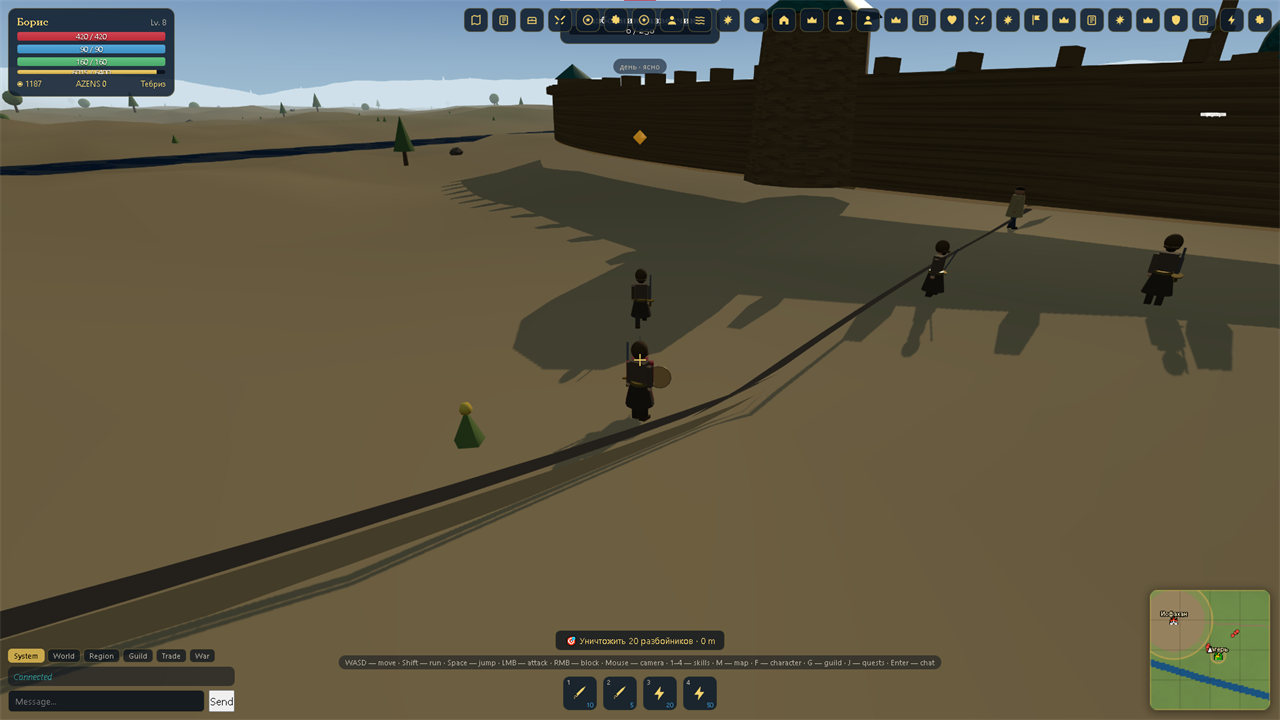
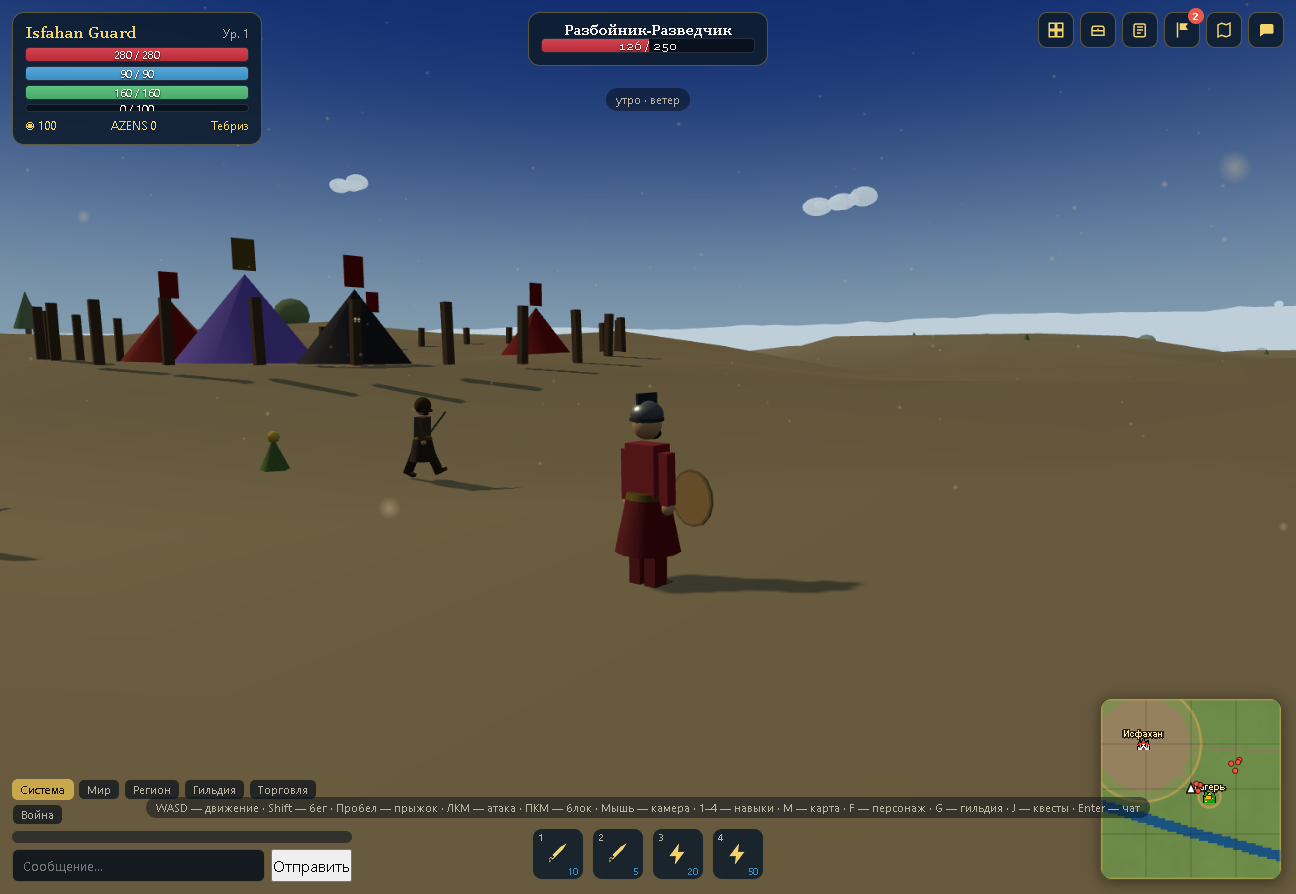
Лендинг: кадры сняты с боевого сервера, а не выдуманы
Раздел скриншотов врал три раза из четырёх.

1. Имя файла и подпись описывали разное. combat.png был подписан "Дороги,
   ведущие в город" - это не бой. dungeon.png - "Караванный лагерь
   ночью", simurgh.png - "Ворота города". Ни одна подпись не
   соответствовала содержимому своего файла.

2. Кадры показывали интерфейс, которого в игре нет: ряд из 33 кнопок.
   Сейчас в ряду пять плюс уведомления, и добавлена кнопка задач дня.
   Лендинг обещал игру, которой не существует.

3. Кадры обрезались. Формат 1290x872, карточка резала по 16/9 и
   отрезала верх и низ - рамку персонажа, ряд кнопок и чат.

Снято четыре кадра с боевого сервера, в русском интерфейсе, после
всех выкаток: город Тебриз утром, бой с разбойниками (видна полоса
здоровья цели и осталось 126 из 250), панель ежедневных задач с
красной цифрой на кнопке, карта мира. Имена файлов теперь совпадают
с содержимым: city, combat, tasks, worldmap.

Пропорция карточки 3/2 вместо 16/9 - под фактический формат кадра,
чтобы не срезалось ни верх, ни низ.

Тест server/src/tests/landingShots.test.ts, 11 проверок: у каждой
карточки есть файл, в папке нет лишних файлов, подпись и alt - один
ключ, подпись есть во всех трёх языках, удалённые ключи не остались в
словарях, ряд кнопок в игре содержит шесть кнопок (иначе кадр снова
устареет), а карточка не режет кадр по высоте.

Попутно в тесте пришлось разобрать путь ключа site.ss_city по словарю,
а не искать по префиксу: сначала проверка искала "site.site.ss_city" и
[…]

diff --git a/server/src/tests/landingShots.test.ts b/server/src/tests/landingShots.test.ts
@@ -1,0 +1,122 @@
+// Скриншоты лендинга: кадр, файл и подпись — одно и то же.
+//
+// ТУТ БЫЛО РАЗОШЕДШИЕСЯ ТРИ ВЕЩИ.
+//
+//  1. Имя файла и подпись описывали разное. Файл combat.png был подписан
+//     «Дороги, ведущие в город», dungeon.png — «Караванный лагерь ночью»,
+//     simurgh.png — «Ворота города». Ни одна подпись не соответствовала
+//     содержимому своего файла, и раздел в итоге врал три раза из
+//     четырёх.
+//
+//  2. Кадры показывали интерфейс, которого в игре нет. На них был ряд из
+//     полутора десятков кнопок; сейчас в ряду пять, плюс задачи дня. Кадр
+//     со старым рядом — обещание игры, которой не существует.
+//
+//  3. Кадры обрезались. Формат кадра 1290×872, а карточка резала по
+//     16/9 и отрезала верх и низ: рамку персонажа, ряд кнопок и чат.
+//
+// Проверка требует, чтобы у каждого кадра на лендинге был реальный файл,
+// подпись во всех трёх языках и не осталось лишних файлов в папке.
+import { readFileSync, readdirSync } from 'node:fs';
+import { join } from 'node:path';
+
+const repoRoot = join(__dirname, '..', '..', '..');
+const read = (p: string): string => readFileSync(join(repoRoot, p), 'utf-8');
+
+const html = read('client/web/index.html');
+const css = read('client/web/css/main.css');
+const dir = join(repoRoot, 'client', 'web', 'assets', 'screenshots');
+const files = readdirSync(dir).filter((f) => f.endsWith('.png'));
+
+const LOCALES = ['ru', 'en', 'az'] as const;
+const locale = (lang: string): Record<string, Record<string, string>> =>
+  JSON.parse(read(`shared/locales/${lang}.json`));
+
+/** Карточки раздела: файл + ключ подписи */
+function cards(): { file: string; key: string; alt: string }[] {
+  const block = /<div class="screenshots-grid">([\s\S]*?)<\/div>\s*<\/section>/.exec(html)?.[1] ?? '';
+  return [...block.matchAll(/src="\/assets\/screenshots\/([^"]+)"[^>]*?data-i18n-alt="([^"]+)"[\s\S]*?data-i18n="([^"]+)"/g)]
+    .map(m => ({ file: m[1], key: m[2], alt: m[3] }));
+}
+
+const CARDS = cards();
+
+/** Ключ вида site.ss_city разворачиваем в путь по словарю */
+function value(dict: Record<string, unknown>, key: string): string | undefined {
+  const found = key.split('.').reduce<unknown>((acc, part) => (acc as Record<string, unknown>)?.[part], dict);
+  return typeof found === 'string' ? found : undefined;
+}
+
+describe('Скриншоты лендинга соответствуют игре', () => {
+  it('карточки разобраны (иначе проверки ниже вхолостую)', () => {
+    expect({ карточек: CARDS.length }).toEqual({ карточек: expect.any(Number) });
+    expect(CARDS.length).toBeGreaterThanOrEqual(4);
+  });
+
+  it('у каждой карточки есть файл', () => {
+    // Ссылка на несуществующий файл — пустая карточка на лендинге
+    const missing = CARDS.filter(c => !files.includes(c.file)).map(c => c.file);
+    expect({ нет_файлов: missing }).toEqual({ нет_файлов: [] });
+  });
+
+  it('в папке нет лишних файлов', () => {
+    // Кадр, которого нет на странице, — мёртвый вес в репозитории: он
+    // весит сотни килобайт и никому не показывается
+    const used = new Set(CARDS.map(c => c.file));
+    expect({ лишние: files.filter(f => !used.has(f)) }).toEqual({ лишние: [] });
+  });
+
+  it('подпись и alt у карточки — один и тот же ключ', () => {
+    // Разъезд этих двух ключей означал бы, что при смене языка картинка
+    // получила одно название, а подпись под ней — другое
+    const bad = CARDS.filter(c => c.key !== c.alt).map(c => ({ file: c.file, alt: c.alt, подпись: c.key }));
+    expect({ расхождения: bad }).toEqual({ расхождения: [] });
+  });
+
+  for (const lang of LOCALES) {
+    it(`${lang} — подпись к каждому кадру есть и не пустая`, () => {
+      const dict = locale(lang) as unknown as Record<string, unknown>;
+      const missing = CARDS.filter(c => !value(dict, c.key)?.trim()).map(c => c.key);
+      expect({ lang, missing }).toEqual({ lang, missing: [] });
+    });
+  }
+
+  it('удалённые кадры не остались в словарях', () => {
+    // Подписи ss_isfahan / ss_dungeon / ss_simurgh описывали файлы,
+    // которых больше нет. Оставшиеся ключи — мусор: их ничего не
+    // показывает, и через год о них никто не вспомнит
+    for (const lang of LOCALES) {
+      const site = locale(lang).site ?? {};
+      const leftovers = ['ss_isfahan', 'ss_dungeon', 'ss_simurgh'].filter(k => site[k] !== undefined);
+      expect({ lang, leftovers }).toEqual({ lang, leftovers: [] });
+    }
+  });
+});
+
+describe('Кадр показывает интерфейс такой, какой он сейчас', () => {
+  it('ряд кнопок в игре — пять, а не полтора десятка', () => {
+    // Раньше на кадрах был ряд из 33 кнопок, теперь пять: хаб, сумка,
+    // квесты, задачи дня, регионы, плюс уведомления. Кадр со старым рядом
+    // показывал бы игру, которой нет
+    const buttons = [...html.matchAll(/<button\b[^>]*\bid="([^"]+)"/g)].length;
+    expect({ кнопок_в_разметке_игры: buttons }).toEqual({ кнопок_в_разметке_игры: expect.any(Number) });
+    const toggles = /<div class="hud panel-toggles">([\s\S]*?)<\/div>/.exec(read('client/src/app/index.html'))?.[1] ?? '';
+    const count = (toggles.match(/data-panel=/g) ?? []).length;
+    expect({ кнопок_в_ряду: count }).toEqual({ кнопок_в_ряду: 6 });
+  });
+
+  it('в ряду есть кнопка задач дня — её видно на кадре', () => {
+    const toggles = /<div class="hud panel-toggles">([\s\S]*?)<\/div>/.exec(read('client/src/app/index.html'))?.[1] ?? '';
+    expect(toggles).toMatch(/data-panel="panel-tasks"/);
+  });
+
+  it('кадр не обрезается по высоте', () => {
+    // Кадр 1290×872, это 1.48. При 16/9 (1.78) сверху и снизу срезалось
+    // бы около 146 пикселей — рамка персонажа, ряд кнопок и чат
+    const rule = /\.screenshot-card img \{([^}]*)\}/.exec(css)?.[1] ?? '';
+    const m = /aspect-ratio:\s*([0-9.]+)\s*\/\s*([0-9.]+)/.exec(rule);
+    const ratio = Number(m?.[1]) / Number(m?.[2]);
+    expect({ соотношение: ratio, не_обрезает: ratio >= 1.4 && ratio <= 1.55 })
+      .toEqual({ соотношение: expect.any(Number), не_обрезает: true });
+  });
+});

diff --git a/client/web/index.html b/client/web/index.html
@@ -174,22 +174,26 @@
     <!-- Скриншоты и геймплей -->
     <section class="section" id="screenshots">
       <h2 class="section-title"><span data-icon="scroll" data-icon-size="22"></span>&nbsp;<span data-i18n="site.screenshots_title"></span></h2>
+      <!-- Кадры сняты с БОЕВОГО сервера после всех правок интерфейса.
+           Прежние четыре не соответствовали своим подписям (файл
+           combat.png был «дорогами к городу», а не боем) и показывали
+           ряд из полутора десятков кнопок, которого в игре давно нет. -->
       <div class="screenshots-grid">
         <div class="screenshot-card">
-          <img src="/assets/screenshots/combat.png" alt="Бой в пустыне" data-i18n-alt="site.ss_combat" loading="lazy">
+          <img src="/assets/screenshots/city.png" alt="Утренний Тебриз" data-i18n-alt="site.ss_city" loading="lazy">
+          <p class="screenshot-caption" data-i18n="site.ss_city"></p>
+        </div>
+        <div class="screenshot-card">
+          <img src="/assets/screenshots/combat.png" alt="Бой с разбойниками" data-i18n-alt="site.ss_combat" loading="lazy">
           <p class="screenshot-caption" data-i18n="site.ss_combat"></p>
         </div>
         <div class="screenshot-card">
-          <img src="/assets/screenshots/isfahan.png" alt="Площадь Исфахана" data-i18n-alt="site.ss_isfahan" loading="lazy">
-          <p class="screenshot-caption" data-i18n="site.ss_isfahan"></p>
+          <img src="/assets/screenshots/tasks.png" alt="Ежедневные задачи" data-i18n-alt="site.ss_tasks" loading="lazy">
+          <p class="screenshot-caption" data-i18n="site.ss_tasks"></p>
         </div>
         <div class="screenshot-card">
-          <img src="/assets/screenshots/dungeon.png" alt="Подземелье" data-i18n-alt="site.ss_dungeon" loading="lazy">
-          <p class="screenshot-caption" data-i18n="site.ss_dungeon"></p>
-        </div>
-        <div class="screenshot-card">
-          <img src="/assets/screenshots/simurgh.png" alt="Босс Симург" data-i18n-alt="site.ss_simurgh" loading="lazy">
-          <p class="screenshot-caption" data-i18n="site.ss_simurgh"></p>
+          <img src="/assets/screenshots/worldmap.png" alt="Карта мира" data-i18n-alt="site.ss_worldmap" loading="lazy">
+          <p class="screenshot-caption" data-i18n="site.ss_worldmap"></p>
         </div>
       </div>
     </section>

diff --git a/client/web/css/main.css b/client/web/css/main.css
@@ -605,7 +605,10 @@ body {
 .screenshot-card img {
   display: block;
   width: 100%;
-  aspect-ratio: 16 / 9;
+  /* 3:2, а не 16:9. Кадры сняты в окне 1290×872, и при 16/9
+     object-fit: cover срезал верх и низ — то есть рамку персонажа,
+     ряд кнопок и чат: на лендинге оставалось бы не то, что в игре */
+  aspect-ratio: 3 / 2;
   object-fit: cover;
 }
 .screenshot-caption {
